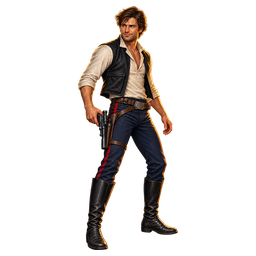
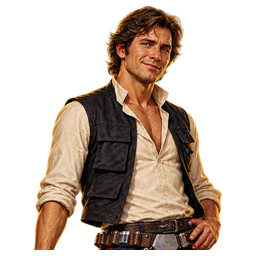
art: Codex dialogue portraits for Han and Leia; crop full-body portraits to a bust
Codex returned full-length figures even when asked for a bust, so
fit_portrait.py now crops a tall figure to its head and shoulders before
fitting. Han and Leia get head-and-shoulders dialogue portraits (original
faces, lore costume). Codex hit its usage limit before Lando, Pellaeon,
Wedge, Luke and Chewbacca; they follow after the reset.

diff --git a/production/tools/fit_portrait.py b/production/tools/fit_portrait.py
@@ -19,6 +19,26 @@ from PIL import Image
 from derive_unit_frames import PORTRAIT, degenerate_reason, fit, remove_flat_background
 
 
+def head_and_shoulders(img: Image.Image) -> Image.Image:
+    """Crop a full-body figure to its head and shoulders.
+
+    Codex sometimes returns a full-length figure even when asked for a bust.
+    A figure much taller than wide is cropped to its top part (about 1.15x
+    its width), which frames the head and shoulders for dialogue.
+    """
+    bbox = img.split()[3].point(lambda a: 255 if a > 24 else 0).getbbox()
+    if not bbox:
+        return img
+    left, top, right, bottom = bbox
+    width, height = right - left, bottom - top
+    if height <= 1.45 * width:
+        return img
+    # The figure's own width is inflated by arms and weapons; frame a little
+    # wider than the shoulders and centre on the upper body.
+    crop_h = int(width * 1.15)
+    return img.crop((left, top, right, top + crop_h))
+
+
 def main() -> int:
     parser = argparse.ArgumentParser(description=__doc__)
     parser.add_argument("--portrait", type=Path, required=True)
@@ -27,7 +47,8 @@ def main() -> int:
     args = parser.parse_args()
     if not args.slug.replace("-", "").isalnum():
         raise SystemExit("invalid slug")
-    portrait = fit(remove_flat_background(Image.open(args.portrait)), PORTRAIT, margin=6, anchor_bottom=True)
+    source = remove_flat_background(Image.open(args.portrait))
+    portrait = fit(head_and_shoulders(source), PORTRAIT, margin=6, anchor_bottom=True)
     reason = degenerate_reason(portrait.resize((72, 72)))
     if reason:
         raise SystemExit(f"degenerate portrait rejected: {reason}")
